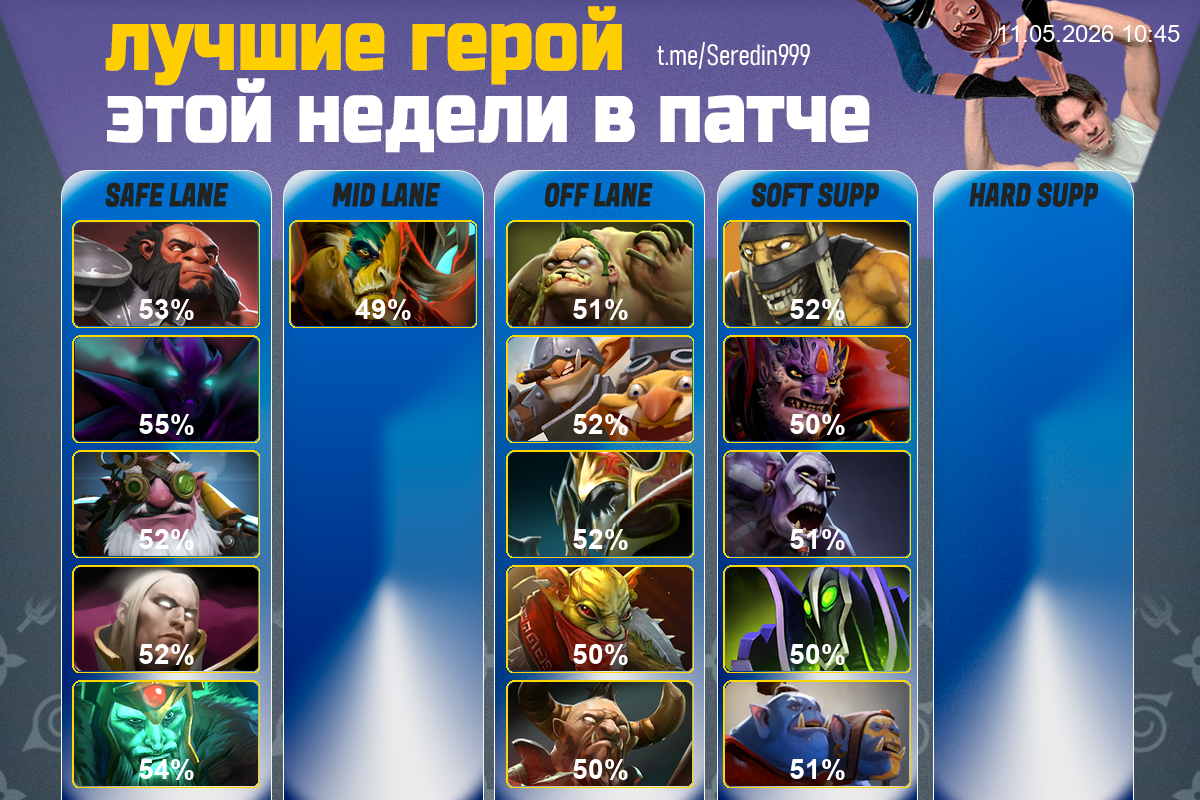
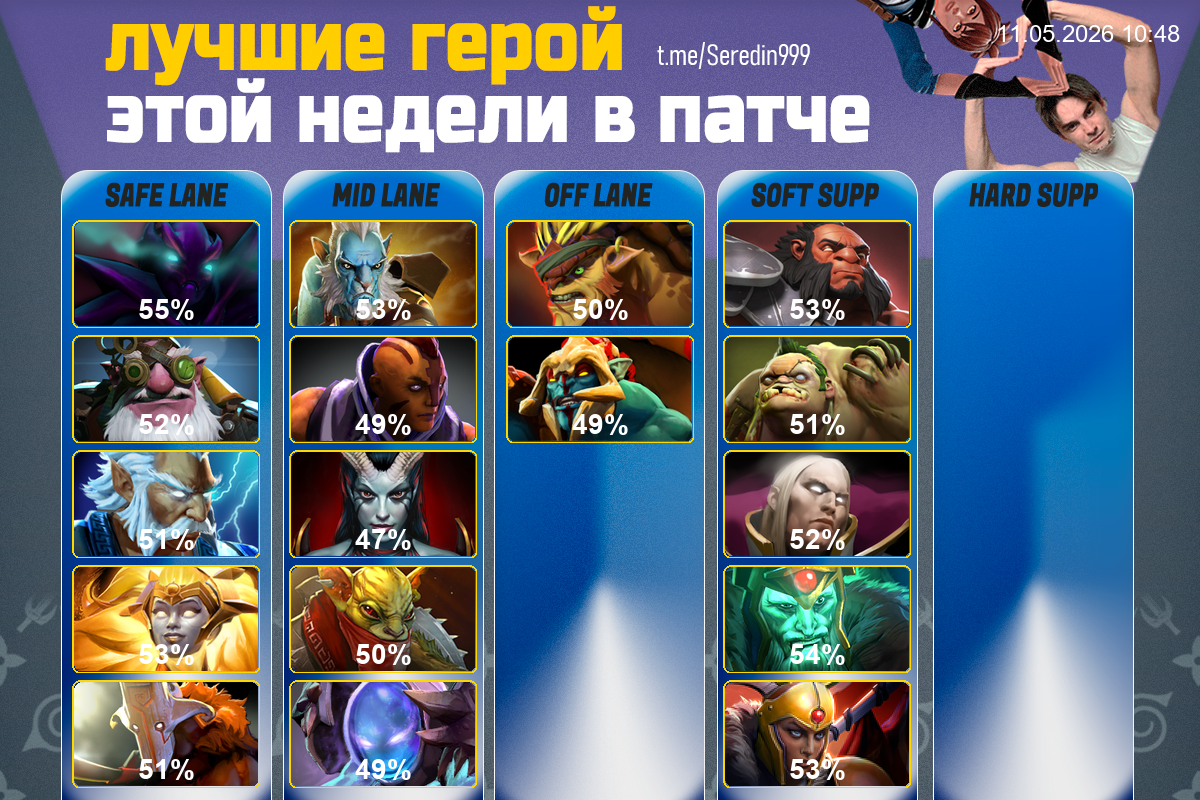
Rework hero position detection using OpenDota role logic: Support/Disabler -> SUPPORT, Nuker+Escape -> MID, Durable+Initiator -> OFFLANE, Carry -> CARRY, else SUPPORT. Distinguish support positions by picks.

diff --git a/hero_meta.py b/hero_meta.py
@@ -50,42 +50,55 @@ if FONT_PATH is None:
 def detect_hero_position(hero_data):
 
     roles = set(hero_data.get("roles", []))
-    if roles:
-        # Приоритет ролей
-        if "Carry" in roles:
-            return 1
-        elif "Mid" in roles:
-            return 2
-        elif "Offlane" in roles:
-            return 3
-        elif "Hard Support" in roles:
-            return 5
-        elif "Support" in roles or "Soft Support" in roles:
-            return 4
 
-    # Fallback to picks if no roles
-    best_pos = 1
+    # Use OpenDota role logic similar to weekly_analytics
+    if "Support" in roles or "Disabler" in roles:
+        base_role = "SUPPORT"
+    elif "Nuker" in roles and "Escape" in roles:
+        base_role = "MID"
+    elif "Durable" in roles and "Initiator" in roles:
+        base_role = "OFFLANE"
+    elif "Carry" in roles:
+        base_role = "CARRY"
+    else:
+        base_role = "SUPPORT"
+
+    # Map to positions
+    role_to_pos = {
+        "CARRY": 1,
+        "MID": 2,
+        "OFFLANE": 3,
+        "SUPPORT": 4  # Default to soft support, adjust below
+    }
+
+    pos = role_to_pos.get(base_role, 4)
+
+    # For support, distinguish hard/soft based on position picks
+    if base_role == "SUPPORT":
+        p4_picks = hero_data.get("4_pick", 0)
+        p5_picks = hero_data.get("5_pick", 0)
+        if p5_picks > p4_picks:
+            pos = 5
+        else:
+            pos = 4
+
+    # If has position picks, adjust if the hero is actually played there
+    best_pos = pos
     best_score = 0
 
-    for pos in range(1, 6):
+    for p in range(1, 6):
+        picks = hero_data.get(f"{p}_pick", 0)
+        wins = hero_data.get(f"{p}_win", 0)
+        if picks > 0:
+            wr = wins / picks
+            score = picks * wr
+            if score > best_score:
+                best_score = score
+                best_pos = p
 
-        picks = hero_data.get(f"{pos}_pick", 0)
+    # But keep within role group? No, if played a lot in another lane, perhaps allow.
 
-        wins = hero_data.get(f"{pos}_win", 0)
-
-        if picks <= 0:
-            continue
-
-        wr = wins / picks
-
-        score = picks * wr
-
-        if score > best_score:
-
-            best_score = score
-            best_pos = pos
-
-    return best_pos
+    return pos  # Stick to role-based
 
 
 def apply_fancy_style(img, size=(188, 100), radius=15, border_width=3):
